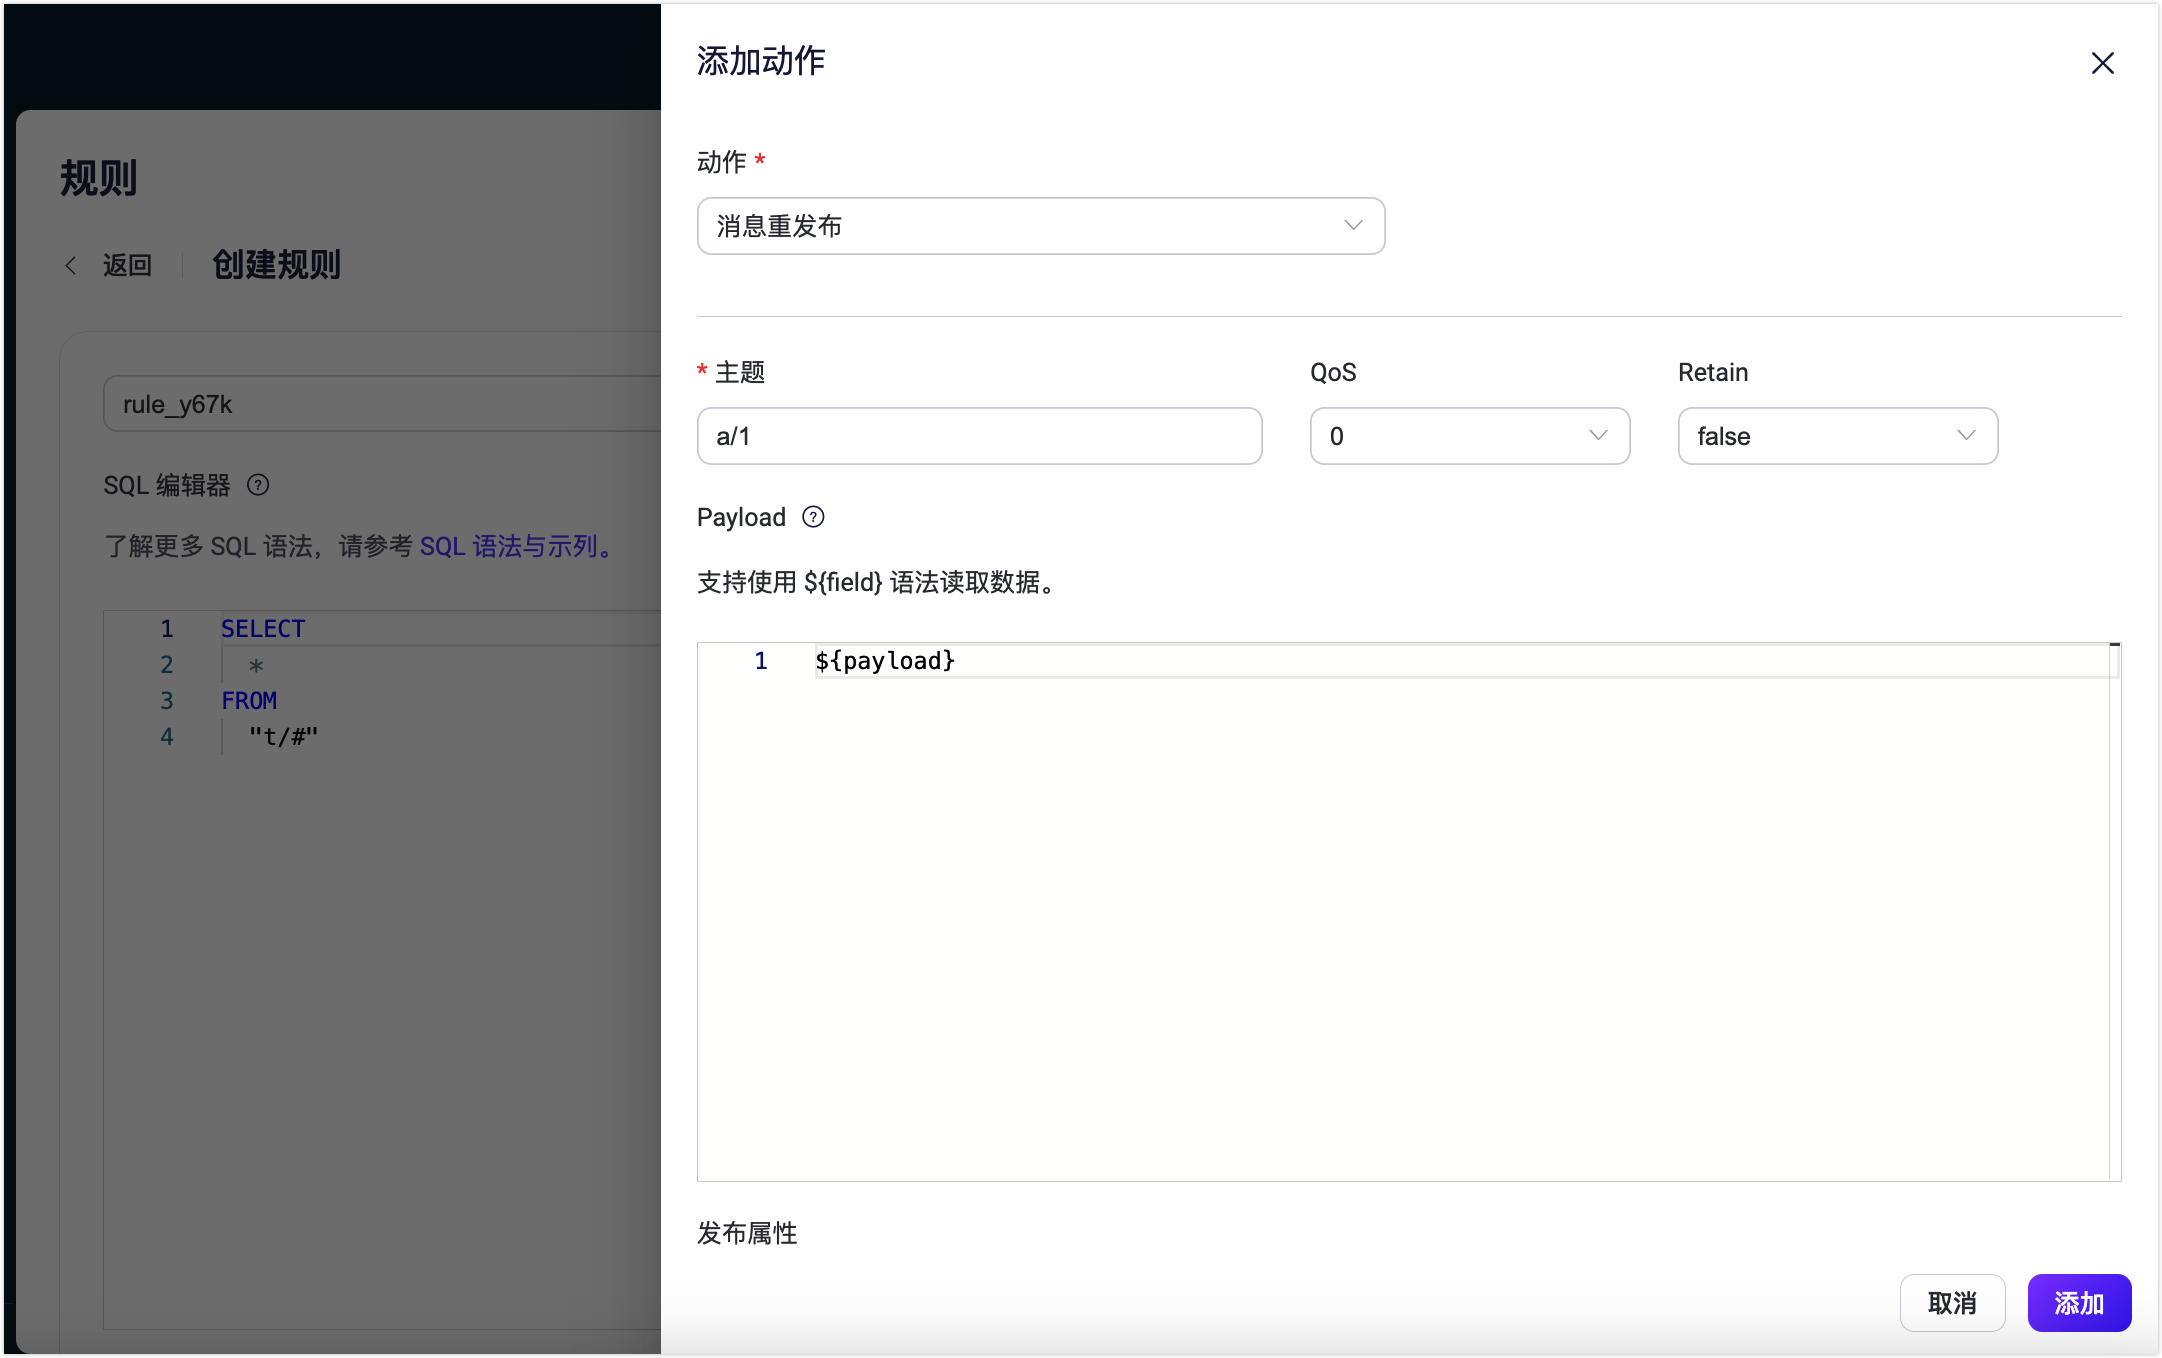
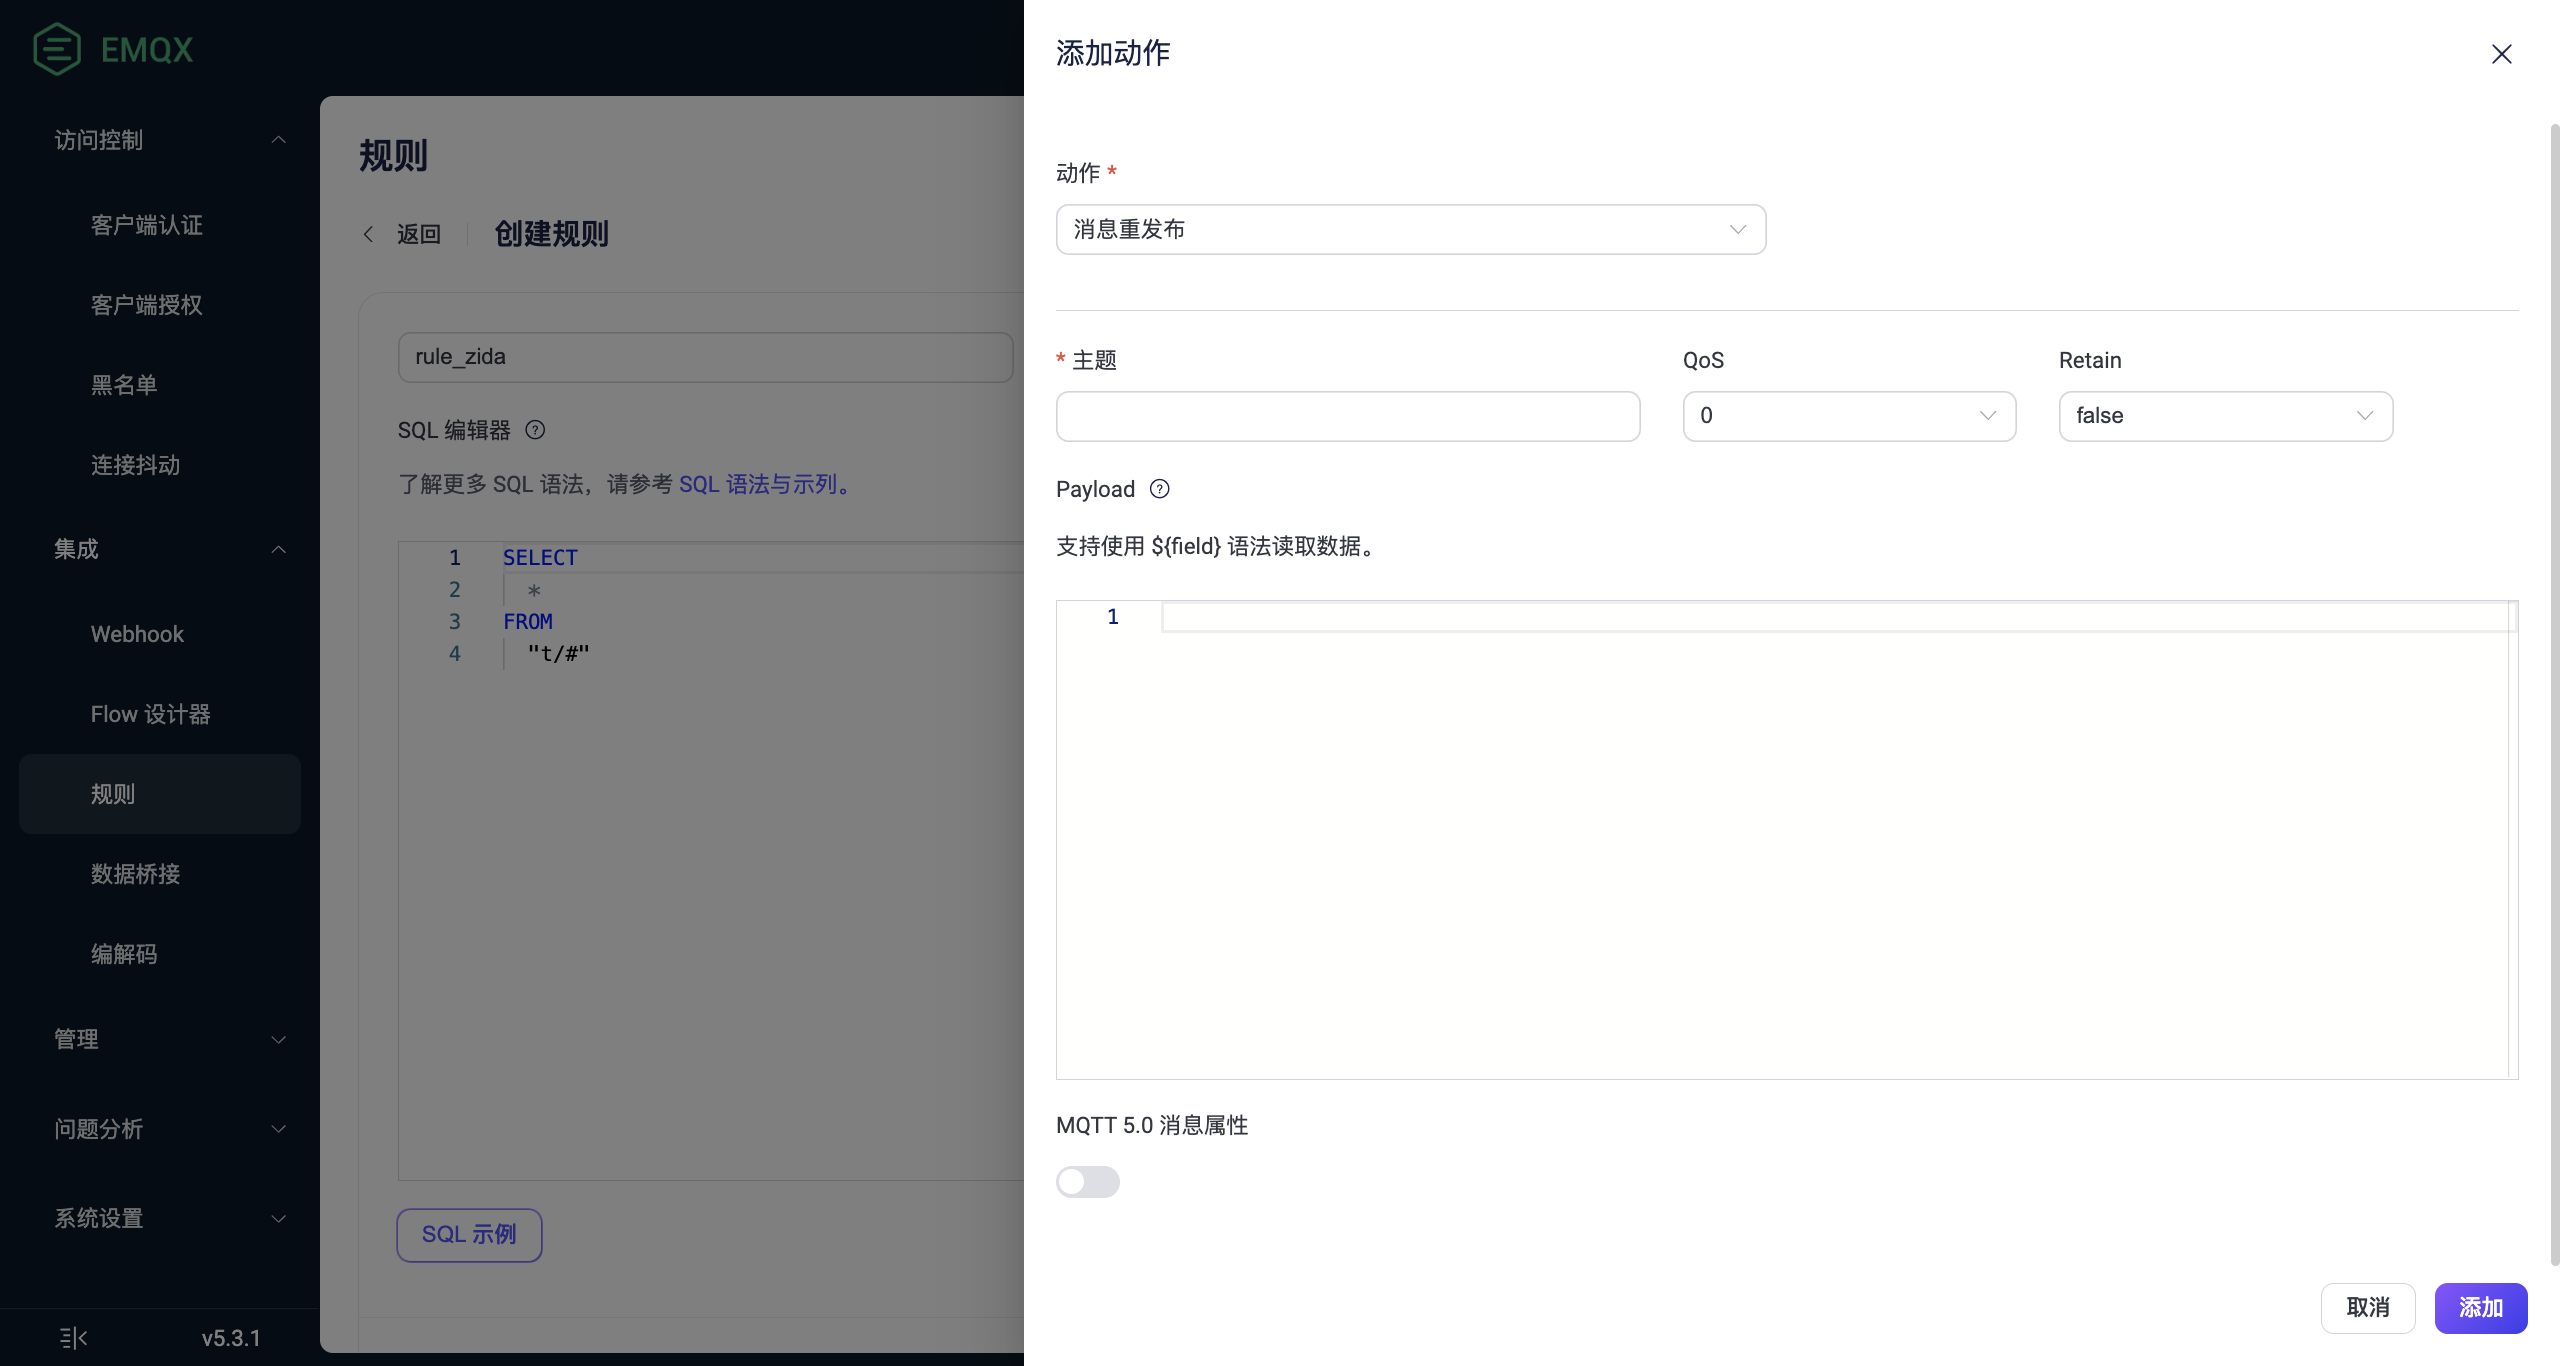
fix(republish): update mqtt property

diff --git a/zh_CN/dashboard/audit-log.md b/zh_CN/dashboard/audit-log.md
@@ -10,7 +10,7 @@
 
 ## 查看审计日志
 
-用当审计日志在 EMQX 中启用，变更性操作记录将以日志形式保存在 `./log/audit.log.1` 文件中，方便企业用户深入分析审计记录，并集成到现有的日志管理系统中，满足合规和数据安全需求。 后续版本 EMQX 还将支持在 Dashboard 上直接查看，或通过 REST API 查询与获取审计日志，方便检查操作记录。<!-- TODO 未来版本支持 --> <!-- 通过这两种方法，EMQX 提供了灵活且全面的审计日志支持，使企业用户能够根据自己的需求选择最适合的方式来管理和查看审计日志。 -->
+当审计日志在 EMQX 中启用，变更性操作记录将以日志形式保存在 `./log/audit.log.1` 文件中，方便企业用户深入分析审计记录，并集成到现有的日志管理系统中，满足合规和数据安全需求。 后续版本 EMQX 还将支持在 Dashboard 上直接查看，或通过 REST API 查询与获取审计日志，方便检查操作记录。<!-- TODO 未来版本支持 --> <!-- 通过这两种方法，EMQX 提供了灵活且全面的审计日志支持，使企业用户能够根据自己的需求选择最适合的方式来管理和查看审计日志。 -->
 
 ## 配置审计日志
 
